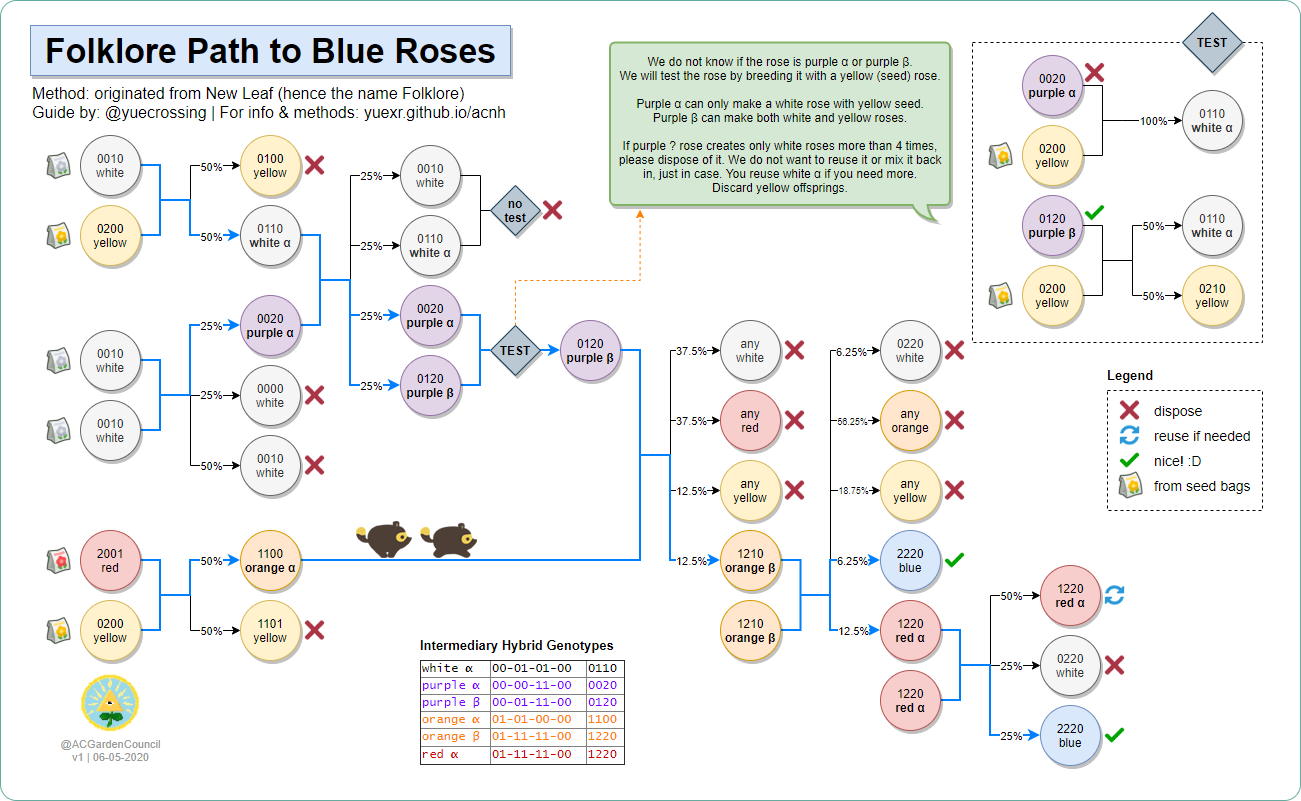
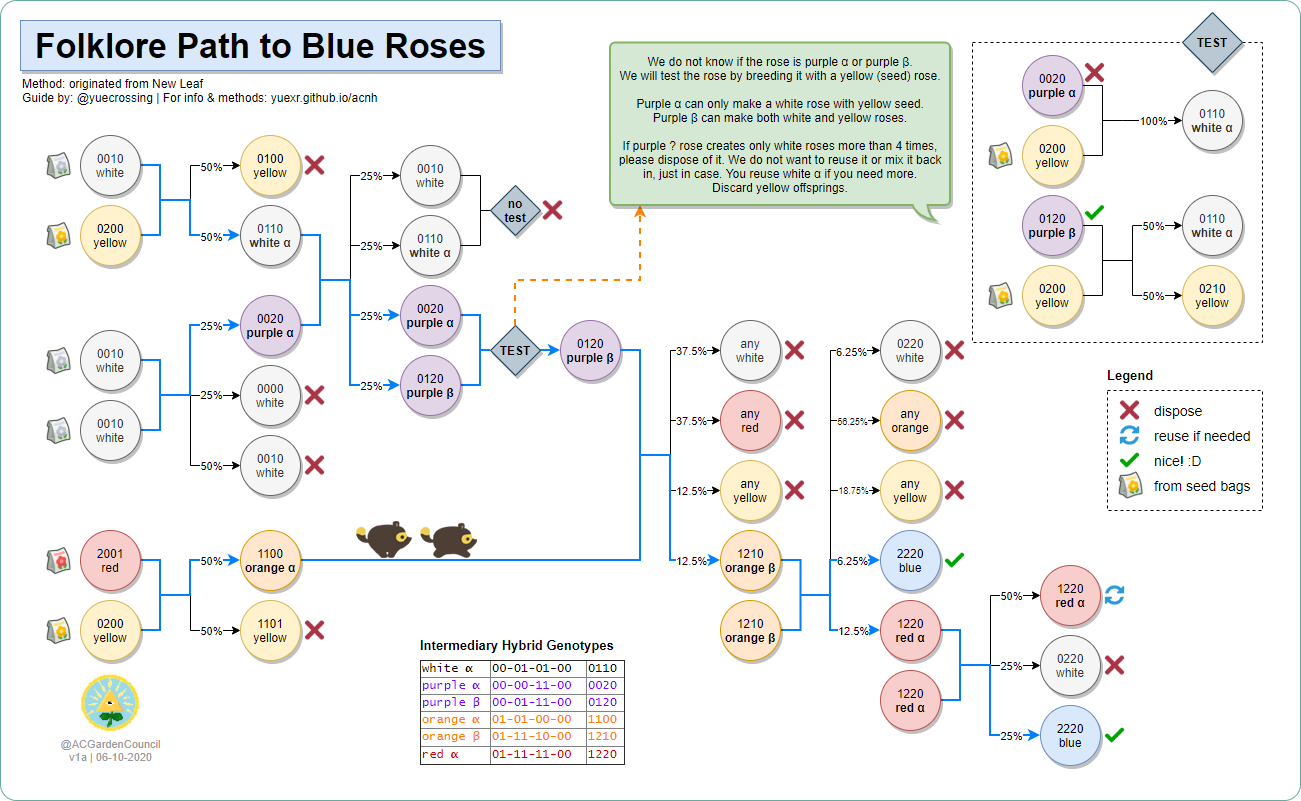
blue rose fixes

Changed region(s): [[0.0, 0.0, 0.3997, 0.1561], [0.0615, 0.9363, 0.123, 0.9675]]

diff --git a/acnh/bluerose.html b/acnh/bluerose.html
@@ -55,7 +55,7 @@
             <a name="top"></a>
             <h1>Blue Rose Methods</h1>
 
-            <p style="color:grey;font-size: 12px;">Last update: 06/07/2020 4am EST.<br>
+            <p style="color:grey;font-size: 12px;">Last update: 06/10/2020 6am EST.<br>
                 Contact me if you see any mistakes or if you have suggestions.</p>
 
             <p>Blue roses are the most difficult flowers to obtain in the game.<br>
@@ -400,7 +400,7 @@
 
             <a name="backngenepool-method"></a>
             <h2>BackwardsN Genepool Method</h2>
-            <img src="../img/bluerose/backngenepool.png" style="cursor:pointer;" onclick="openModal('backngenepool')">
+            <img src="../img/bluerose/backngenepool.png" style="cursor:pointer; width:85%" onclick="openModal('backngenepool')">
 
             <div id="backngenepool" class="modal">
                 <div class="modal-content">
@@ -486,12 +486,12 @@
 
             <a name="paleh-method"></a>
             <h2>Paleh Method (v2)</h2>
-            <img src="../img/bluerose/paleh2_1.png" style="cursor:pointer;" onclick="openModal('paleh')">
+            <img src="../img/bluerose/paleh2_2.png" style="cursor:pointer;" onclick="openModal('paleh')">
 
             <div id="paleh" class="modal">
                 <div class="modal-content">
-                    <img src="../img/bluerose/paleh2_1.png" class="img-modal"><br>
-                    <a href="../img/bluerose/paleh2_1.png" target="_blank"><button class="button">Download</button></a>
+                    <img src="../img/bluerose/paleh2_2.png" class="img-modal"><br>
+                    <a href="../img/bluerose/paleh2_2.png" target="_blank"><button class="button">Download</button></a>
                     <button class="button-gr" onclick="closeModal()">Close</button>
                 </div>
             </div><br>
